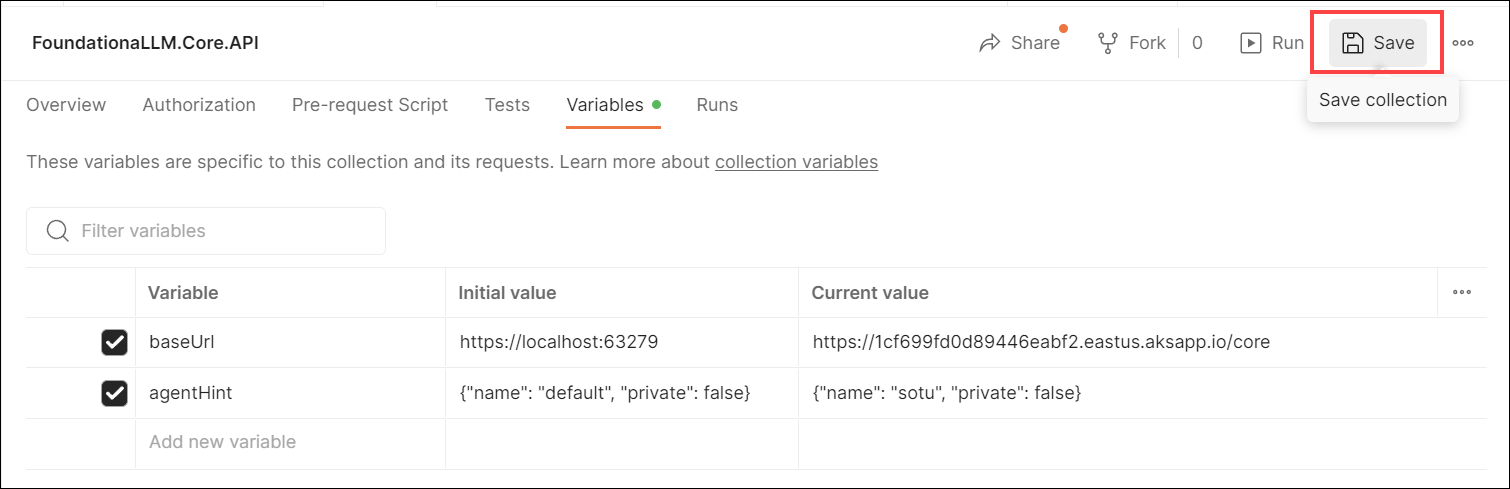
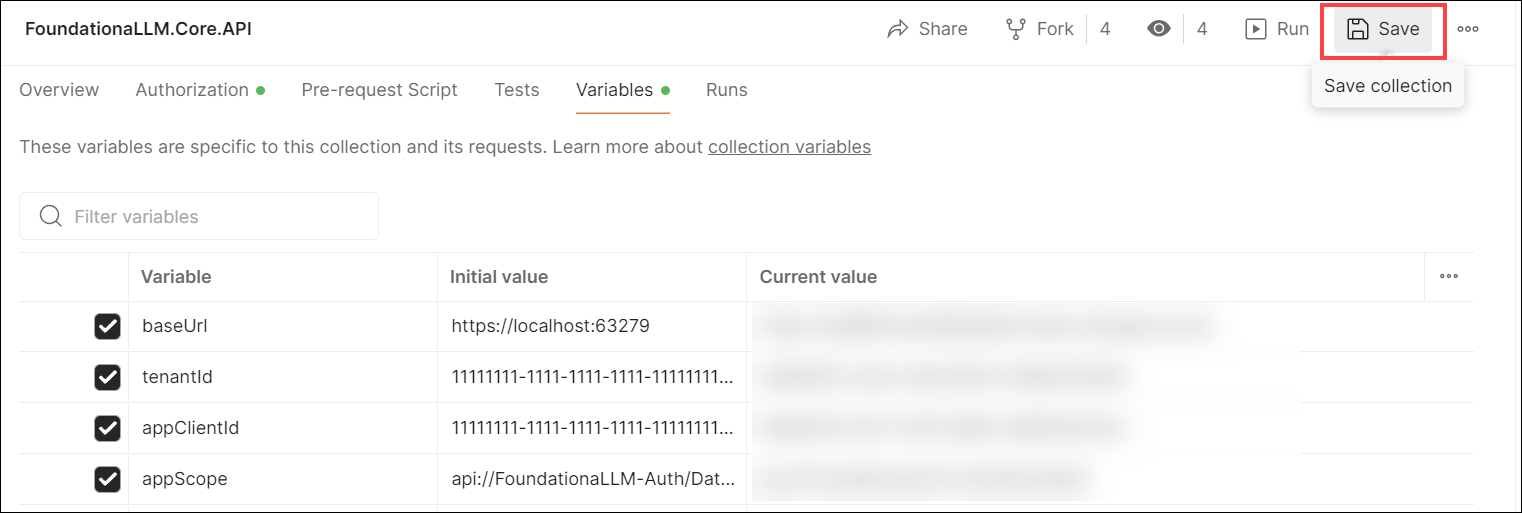
Remove agent hint from Postman doc and screenshots

diff --git a/docs/development/calling-apis/directly-calling-core-api.md b/docs/development/calling-apis/directly-calling-core-api.md
@@ -119,10 +119,6 @@ The Postman collection you imported contains a number of API endpoints that you 
 
     ![The Save button is highlighted.](media/postman-save-button.png)
 
-#### The `agentHint` variable
-
-The `agentHint` variable is used to specify the agent hint header value (`X-AGENT-HINT`) that will be used when calling the Core API completion endpoint. The agent hint value is used to determine which agent will be used to perform the completion. For example, if you have an agent named `policy` that you want to use to perform the completion, then you would set the `agentHint` variable to `{"name": "policy", "private": false}`.
-
 ### Set up the Postman authentication token
 
 There are two ways to obtain the authentication token that you will use to authenticate your API calls:
